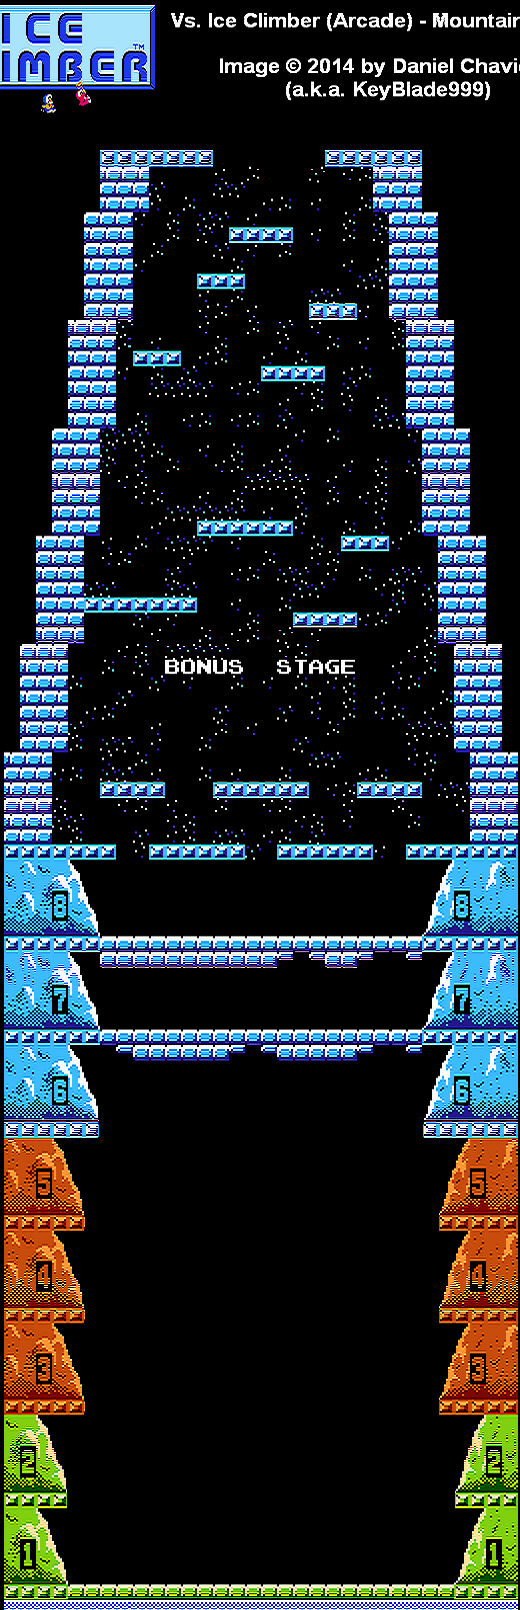
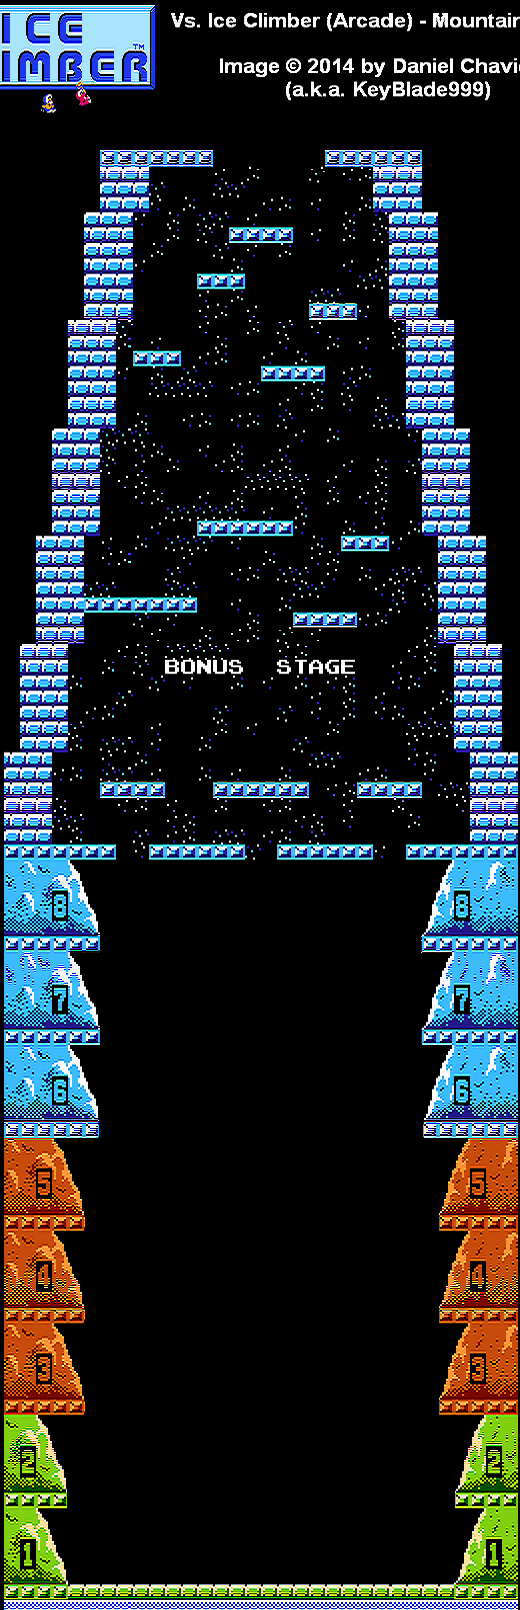
Scroll del nivel

Changed region(s): [[0.1846, 0.559, 0.8308, 0.6832]]

diff --git a/Juego Ice Climber/src/juego/Juego.java b/Juego Ice Climber/src/juego/Juego.java
@@ -20,7 +20,10 @@ public class Juego extends BasicGameState {
 	private Ave ave;
 	private Input entrada;
 	private Image fondo;
-
+	
+	boolean subio_nivel = false;
+	boolean done = false;
+	int altura = 0;
 	
     public void init(GameContainer container, StateBasedGame game) throws SlickException {
         this.fondo = new Image("res/imagenes/mapa_nivel_1.png");
@@ -33,11 +36,31 @@ public class Juego extends BasicGameState {
     }
 
     public void render(GameContainer container, StateBasedGame game, Graphics g) throws SlickException {
-    	this.fondo.draw(0.0f, (float) container.getHeight() - this.fondo.getHeight());
+    	this.fondo.draw(0.0f, (float) container.getHeight() - this.fondo.getHeight() + altura);
     	this.jugador.draw();
     	
     	
     	this.ave.draw();
+    	
+    	if(this.jugador.getArriba() == 176){
+    		subio_nivel = true;
+    		System.out.println("sas");
+    		done = true;
+    		altura += 93;
+    		int redimensionar_bloques = this.bloques.size();
+    		for (int i = 0; i < redimensionar_bloques; i++) {
+    			Bloque bloque1 = new Bloque(this.bloques.get(i).getRuta_(), this.bloques.get(i).getIzquierdo(), this.bloques.get(i).getArriba() + 93);
+    			this.bloques.add(bloque1);
+    		}
+    		
+    		for (int i = 0; i < redimensionar_bloques; i++) {
+    			this.bloques.remove(0);
+    		}
+    		
+    		
+    		this.jugador.setNivel_piso(500);
+    		this.jugador.setY(this.jugador.getArriba() + 93);
+    	}
 		
 		for (int i=0; i<this.bloques.size(); i++) {
 			this.bloques.get(i).draw();
@@ -51,8 +74,13 @@ public class Juego extends BasicGameState {
 		this.ave.update(delta, this.entrada);
 		
 		if (this.jugador.getColision().intersects(this.ave.getAreaColision())) {
-			System.out.println("Colisiono");
+			//System.out.println("Colisiono");
 			cliente.enviarMensaje("restaVida\0");
+		}
+
+		if(subio_nivel == true && this.jugador.sobre_piso == false && this.jugador.getArriba() == 412) {
+			System.out.println("Game Over");
+			//cliente.enviarMensaje("restaVida\0");
 		}
 
 		boolean control_bloques = false;
@@ -102,7 +130,7 @@ public class Juego extends BasicGameState {
 	public void nivel1() throws SlickException {
 		
 		// Piso 1
-		int suma = -20;
+		int suma = 0;
 		for (int i=0; i<28; i++) {
 			suma = i * 20;
 			Bloque bloque1 = new Bloque("res/imagenes/green_block.png", suma, 455);
@@ -110,7 +138,7 @@ public class Juego extends BasicGameState {
 		}
 		
 		// Piso 2
-		suma = -20;
+		suma = 0;
 		for (int i=0; i<28; i++) {
 			suma = i * 20;
 			Bloque bloque1 = new Bloque("res/imagenes/green_block.png", suma, 362);
@@ -118,7 +146,7 @@ public class Juego extends BasicGameState {
 		}
 
 		// Piso 3
-		suma = -20;
+		suma = 0;
 		for (int i=0; i<28; i++) {
 			suma = i * 20;
 			Bloque bloque1 = new Bloque("res/imagenes/brown_block.png", suma, 269);
@@ -126,18 +154,42 @@ public class Juego extends BasicGameState {
 		}
 		
 		// Piso 4
-		suma = -20;
+		suma = 0;
 		for (int i=0; i<28; i++) {
 			suma = i * 20;
 			Bloque bloque1 = new Bloque("res/imagenes/brown_block.png", suma, 176);
 			this.bloques.add(bloque1);
 		}
 		
-		// Piso 4
-		suma = -20;
+		// Piso 5
+		suma = 0;
 		for (int i=0; i<28; i++) {
 			suma = i * 20;
 			Bloque bloque1 = new Bloque("res/imagenes/brown_block.png", suma, 83);
+			this.bloques.add(bloque1);
+		}
+		
+		// Piso 6
+		suma = 0;
+		for (int i=0; i<28; i++) {
+			suma = i * 20;
+			Bloque bloque1 = new Bloque("res/imagenes/blue_block.png", suma, -10);
+			this.bloques.add(bloque1);
+		}
+		
+		// Piso 7
+		suma = 0;
+		for (int i=0; i<28; i++) {
+			suma = i * 20;
+			Bloque bloque1 = new Bloque("res/imagenes/blue_block.png", suma, -103);
+			this.bloques.add(bloque1);
+		}
+		
+		// Piso 8
+		suma = 0;
+		for (int i=0; i<28; i++) {
+			suma = i * 20;
+			Bloque bloque1 = new Bloque("res/imagenes/blue_block.png", suma, -196);
 			this.bloques.add(bloque1);
 		}
 	}

diff --git a/Juego Ice Climber/src/juego/Bloque.java b/Juego Ice Climber/src/juego/Bloque.java
@@ -8,13 +8,23 @@ public class Bloque {
 
 	private SpriteBloque bloque;
 	private Rectangle colision;
+	private String ruta_;
 
     public Bloque(String ruta, float x, float y) throws SlickException {
+    	this.ruta_ = ruta;
         this.bloque = new SpriteBloque(ruta, x, y);
         this.colision = new Rectangle(this.bloque.getPosicion_x(), this.bloque.getPosicion_y(), (float) this.bloque.getWidth(), (float) this.bloque.getHeight());
     }
     
-    public void draw() {
+    public String getRuta_() {
+		return ruta_;
+	}
+
+	public void setRuta_(String ruta_) {
+		this.ruta_ = ruta_;
+	}
+
+	public void draw() {
         this.bloque.draw();
     }
     
@@ -49,6 +59,10 @@ public class Bloque {
     
     public float getAbajo() {
     	return (this.bloque.getPosicion_y() + this.bloque.getHeight());
+    }
+    
+    public void setY(float f) {
+    	this.bloque.setPosicion_y(f);
     }
 }
    
